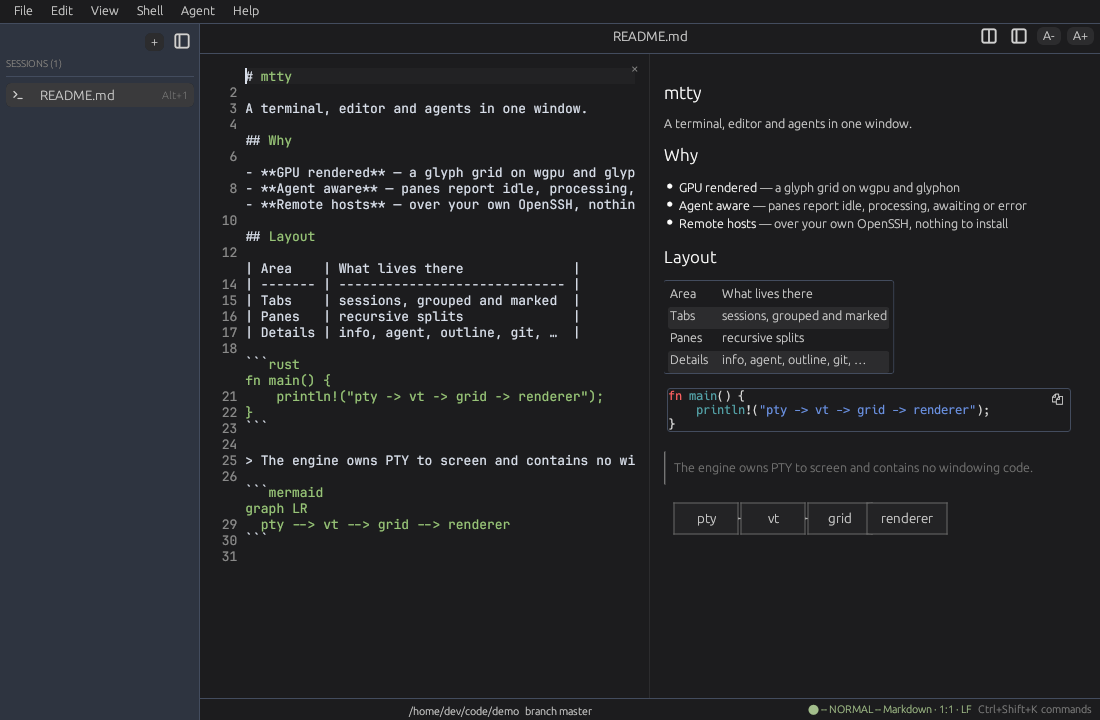
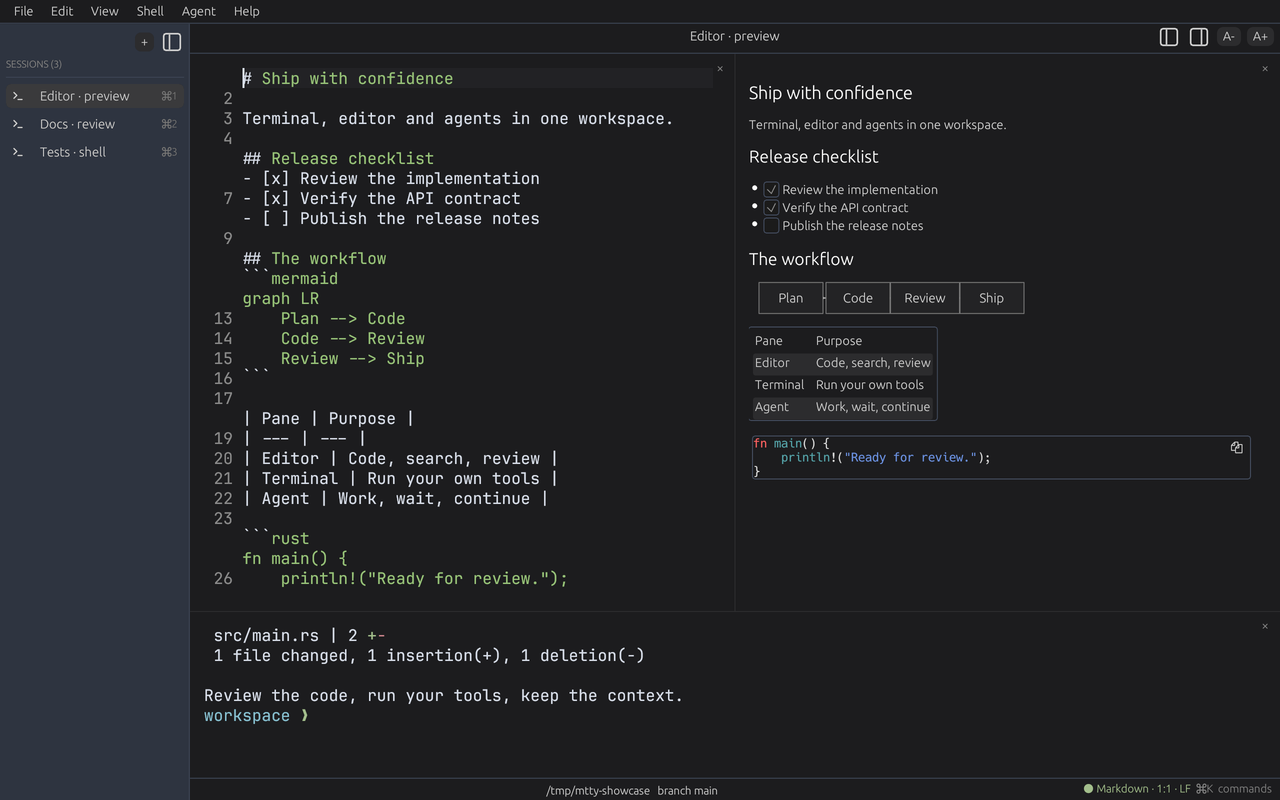
docs: refresh workspace screenshots and demos

diff --git a/README.md b/README.md
@@ -55,23 +55,36 @@ See [`docs/ARCHITECTURE.md`](docs/ARCHITECTURE.md) for the full design.
 
 ## Screenshots
 
-Terminals, files, remote hosts and agents in one window. Three tabs, each
-badged with its agent's state, with the repository's own git log in the active
-pane and the details panel beside it:
+Terminals, files, remote hosts and agents in one window. A Markdown editor,
+Mermaid preview and terminal share the same tabs and recursive split layout:
 
-![Three session tabs with agent-state badges, a git log in the active pane, and the details panel](docs/images/mtty-workspace.png)
+![Current mtty workspace: session sidebar, Markdown editor, Mermaid preview and split terminal](docs/images/mtty.png?v=20261004)
+
+Captured on 2026-10-04 from the current v0.1.3 development build in an isolated
+example project. Agent-state events and edit proposals use the real MTP control
+plane; the host addresses and queued prompts are examples.
 
 | Agent state, live | Editor and live preview |
 |---|---|
-| ![A tab badge and the Agent panel following the pane through the four agent states](docs/images/mtty-states.gif) | ![A Markdown file in the editor with its rendered preview beside it](docs/images/mtty-editor.png) |
+| ![Control-plane events update the badge and Agent panel through processing, awaiting, error and idle](docs/images/mtty-states.gif?v=20261004) | ![A Markdown edit updates the adjacent preview, including Mermaid, tables and code blocks](docs/images/mtty-editor.gif?v=20261004) |
 
-| Command palette to a split | Details panels |
+| Inline edit review | Local and remote hosts |
 |---|---|
-| ![The command palette fuzzy-finding Split Right and laying out a second pane](docs/images/mtty-palette.gif) | ![Switching the details panel between agent, tasks, git, files and ports](docs/images/mtty-panels.gif) |
+| ![A proposed editor change appears inline, then is accepted through the palette](docs/images/mtty-review.gif?v=20261004) | ![Grouped SSH hosts with file access, jump-host settings and saved port forwards; example addresses](docs/images/mtty-hosts.png?v=20261004) |
 
-Recursive splits keep a git log and a running server side by side:
+| Follow-up prompt queue | Details panels |
+|---|---|
+| ![Two prompts queued for the active processing agent pane](docs/images/mtty-queue.png?v=20261004) | ![A sequence of current Info, Agent, Outline, Git, Files, Ports and Queue captures](docs/images/mtty-panels.gif?v=20261004) |
 
-![A tab split into two panes, a git log on the left and an HTTP server on the right](docs/images/mtty-splits.png)
+| Command palette | Tabs with agent badges |
+|---|---|
+| ![Opening the current command palette over the workspace](docs/images/mtty-palette.gif?v=20261004) | ![Processing, awaiting and idle session badges beside terminal output and Git details](docs/images/mtty-workspace.png?v=20261004) |
+
+Recursive splits keep Git changes and an actual local HTTP server side by side:
+
+![Git changes on the left and a running local HTTP server on the right](docs/images/mtty-splits.png?v=20261004)
+
+More short, controllable demos: **[mtty on mtty.dev](https://mtty.dev/mtty#screens)**.
 
 > **Project status — pre-release.** The version is `0.1.3` and the API is not yet
 > stable. macOS is the primary platform. Windows is built, tested and driven over

diff --git a/README.zh-CN.md b/README.zh-CN.md
@@ -46,22 +46,35 @@
 
 ## 截图
 
-终端、文件、远程主机与代理，同在一个窗口。三个标签各自标注代理状态，活动窗格里是仓库自己的
-git 日志，右侧是详情面板：
+终端、文件、远程主机与代理，同在一个窗口。Markdown 编辑器、Mermaid 预览与终端
+共用同一套标签和递归分屏布局：
 
-![三个会话标签带代理状态徽章，活动窗格是 git 日志，右侧为详情面板](docs/images/mtty-workspace.png)
+![当前 mtty 工作区：会话侧栏、Markdown 编辑器、Mermaid 预览和分屏终端](docs/images/mtty.png?v=20261004)
+
+采集于 2026-10-04，使用当前 v0.1.3 开发构建与独立示例项目。代理状态事件与修改提案
+通过真实 MTP 控制面驱动；主机地址与排队提示均为示例。
 
 | 代理状态，实时变化 | 编辑器与实时预览 |
 |---|---|
-| ![标签徽章与 Agent 面板实时跟随窗格在四种状态间切换](docs/images/mtty-states.gif) | ![Markdown 文件在编辑器中打开，右侧是渲染后的预览](docs/images/mtty-editor.png) |
+| ![控制面事件让徽章和 Agent 面板依次显示 processing、awaiting、error 与 idle](docs/images/mtty-states.gif?v=20261004) | ![Markdown 改动实时更新旁边的预览，包含 Mermaid、表格和代码块](docs/images/mtty-editor.gif?v=20261004) |
 
-| 命令面板到分屏 | 详情面板 |
+| 命令面板 | 详情面板 |
 |---|---|
-| ![命令面板模糊查找“向右分屏”并分出第二个窗格](docs/images/mtty-palette.gif) | ![在代理、任务、git、文件与端口之间切换详情面板](docs/images/mtty-panels.gif) |
+| ![在工作区中打开当前命令面板](docs/images/mtty-palette.gif?v=20261004) | ![当前信息、Agent、大纲、Git、文件、端口和队列面板的截图序列](docs/images/mtty-panels.gif?v=20261004) |
 
-递归分屏把 git 日志与运行中的服务并排放在同一个标签里：
+| 行内改动审阅 | 本地与远程主机 |
+|---|---|
+| ![拟议改动在编辑器中行内展示，再通过命令面板接受](docs/images/mtty-review.gif?v=20261004) | ![分组 SSH 主机库，提供文件入口、跳板配置与端口转发；地址为示例](docs/images/mtty-hosts.png?v=20261004) |
 
-![一个标签分成两个窗格，左侧 git 日志，右侧 HTTP 服务](docs/images/mtty-splits.png)
+| 后续提示队列 | 代理状态徽章 |
+|---|---|
+| ![处于 processing 的代理窗格保留两条后续提示](docs/images/mtty-queue.png?v=20261004) | ![processing、awaiting 与 idle 会话徽章，旁边是终端输出与 Git 详情](docs/images/mtty-workspace.png?v=20261004) |
+
+递归分屏把 Git 改动与实际运行的本地 HTTP 服务并排放在同一个标签里：
+
+![左侧是 Git 改动，右侧是实际运行的本地 HTTP 服务](docs/images/mtty-splits.png?v=20261004)
+
+更多可暂停的短演示：**[mtty.dev 上的 mtty](https://mtty.dev/zh/mtty#screens)**。
 
 > **项目状态 —— 预发布。** 当前版本为 `0.1.3`,API 尚未稳定。macOS 是主要平台;
 > Windows 已在真实硬件上构建、测试并经 MTP 驱动(见 [`docs/WINDOWS-DEV.zh-CN.md`](docs/WINDOWS-DEV.zh-CN.md));

diff --git a/docs/images/README.md b/docs/images/README.md
@@ -1,0 +1,22 @@
+# Screenshot provenance
+
+Refreshed 2026-10-04 from the current mtty v0.1.3 development build.
+
+The captures use the actual application's GPU rendering, with an isolated
+example Git project, Markdown/Mermaid source and Rust code. Agent-state events
+and editor proposals are driven through the real MTP control plane. The split
+terminal runs an actual local HTTP server. SSH host destinations and queued
+prompts are examples.
+
+- `mtty.png`: editor, preview and terminal in one workspace.
+- `mtty-workspace.png`, `mtty-states.gif`: session badges and agent-state events.
+- `mtty-editor.*`, `mtty-review.*`: live preview and inline proposal acceptance.
+- `mtty-hosts.png`, `mtty-splits.png`: host library and split terminals.
+- `mtty-palette.*`, `mtty-vim.png`: commands, vim Normal mode and tree-sitter folds.
+- `mtty-tasks.png`, `mtty-queue.png`, `mtty-panels.gif`: command history and details
+  panels. The panel GIF is a sequence of seven fresh still captures.
+
+Stills are at most 1600 px wide. GIFs are 960 px, 2 fps and under 180 KB each.
+The website uses responsive WebP stills and smaller MP4 demos with playback
+controls. See the [shared media notes](https://github.com/oxdingzg/mtty.dev/blob/main/docs/media.md)
+for capture guidelines and budgets.
